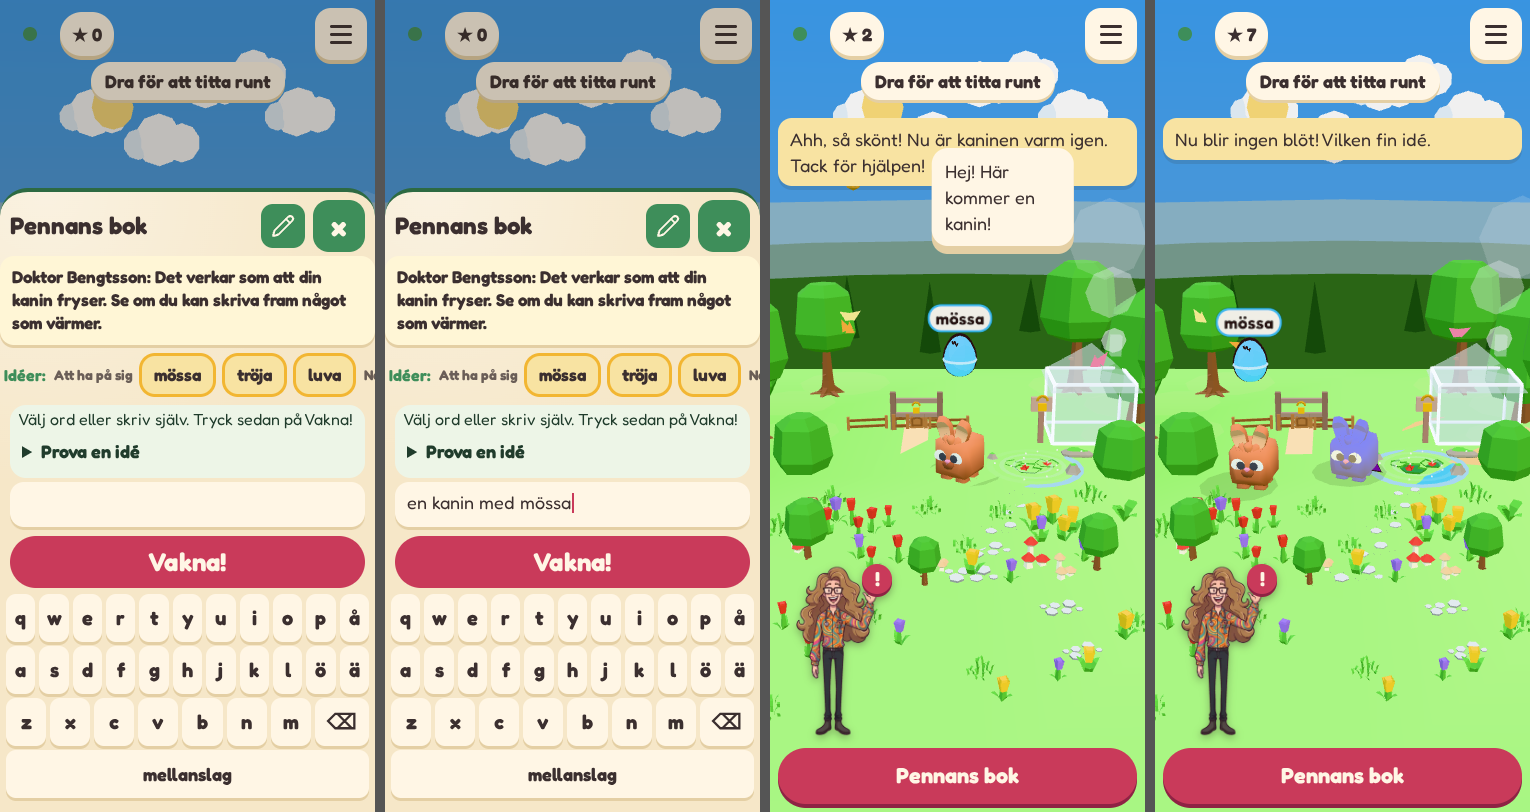
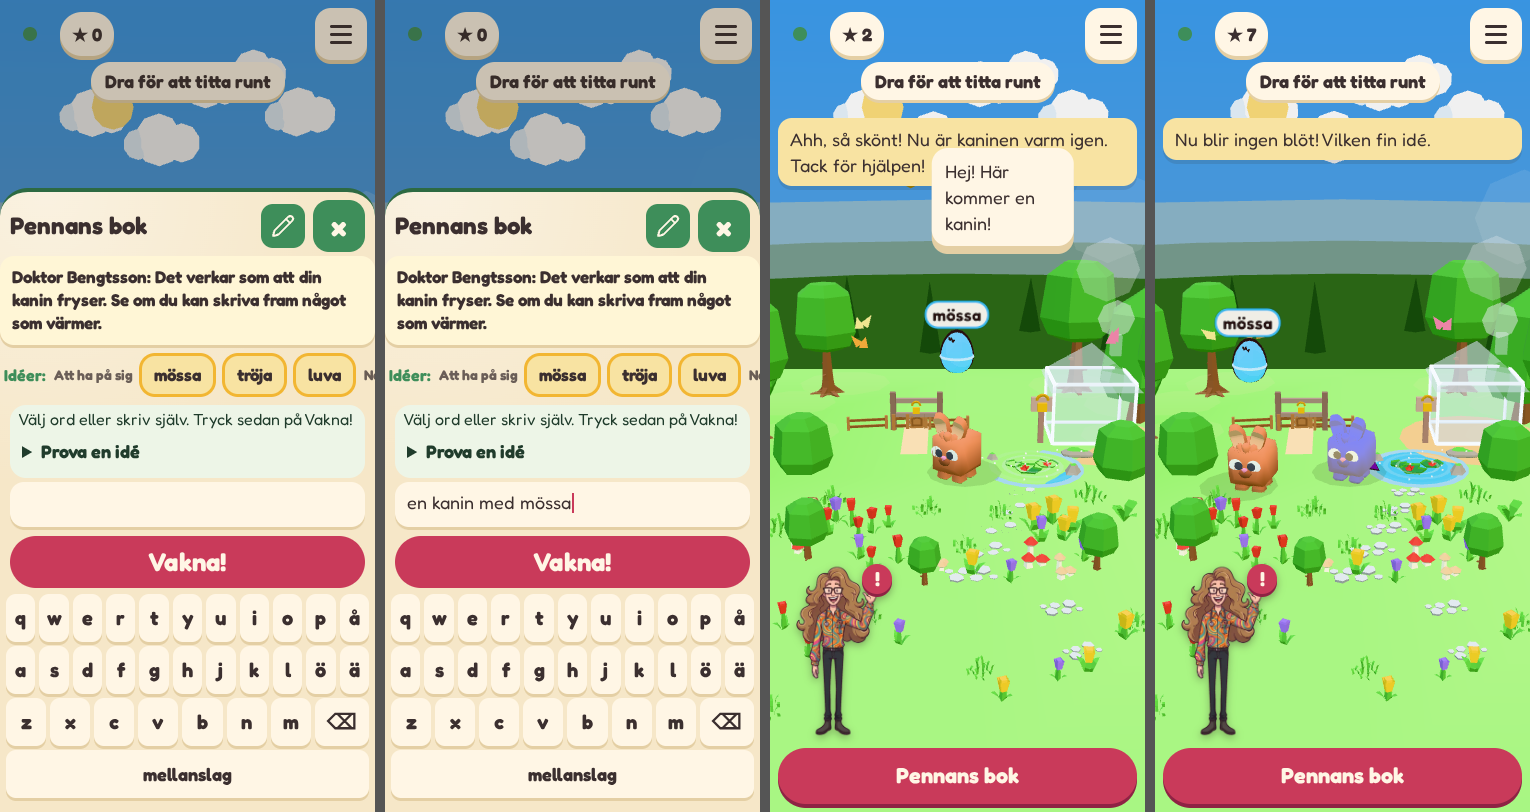
R6A-3: bevisbilder (bubbla, bok, tangentbord, val) och rapport

diff --git a/RUNDAR6A3.md b/RUNDAR6A3.md
@@ -1,0 +1,2 @@
+# R6A-3 + R6A-3B
+Patcharna r6a-3-1 och r6a-3b-2 applicerade i ordning, byte-lika mot ref/. Bevis: test:product 107/107, typecheck 0 fel, check:struktur grön (Spel.tsx 1809 rader), eslint 17 (som före), build:pages grön, forslag-prov, val-prov och tangent-prov exit 0. Bubbelbilder (375x812): `docs/skarmbilder/r6a3/efter/onska-bubbla.png`, `onska-bok.png`: texten läsbar och skymmer inte knappen; mallen i data/firande.json orörd. DOM-tur: bara önskebubbla/-bok (Bengtssons röst) och data-testid="radera" skiljer. Modellspanaren får rundor/R6A-3-bara-bengtsson/modellbehov.tsv.
